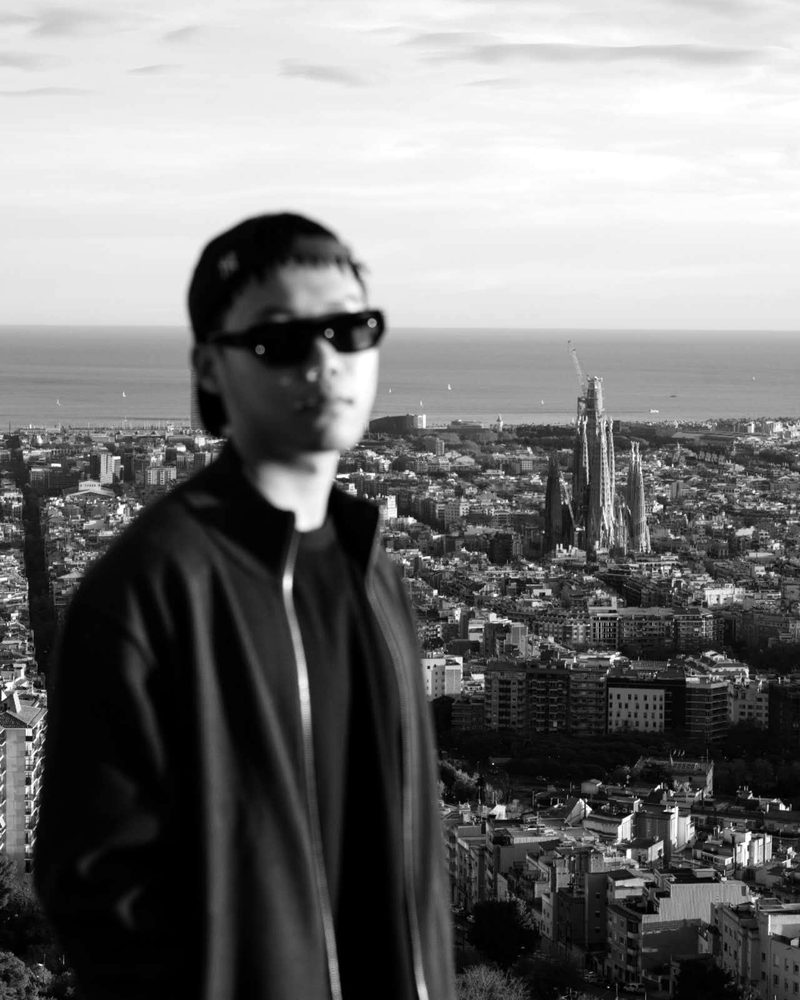
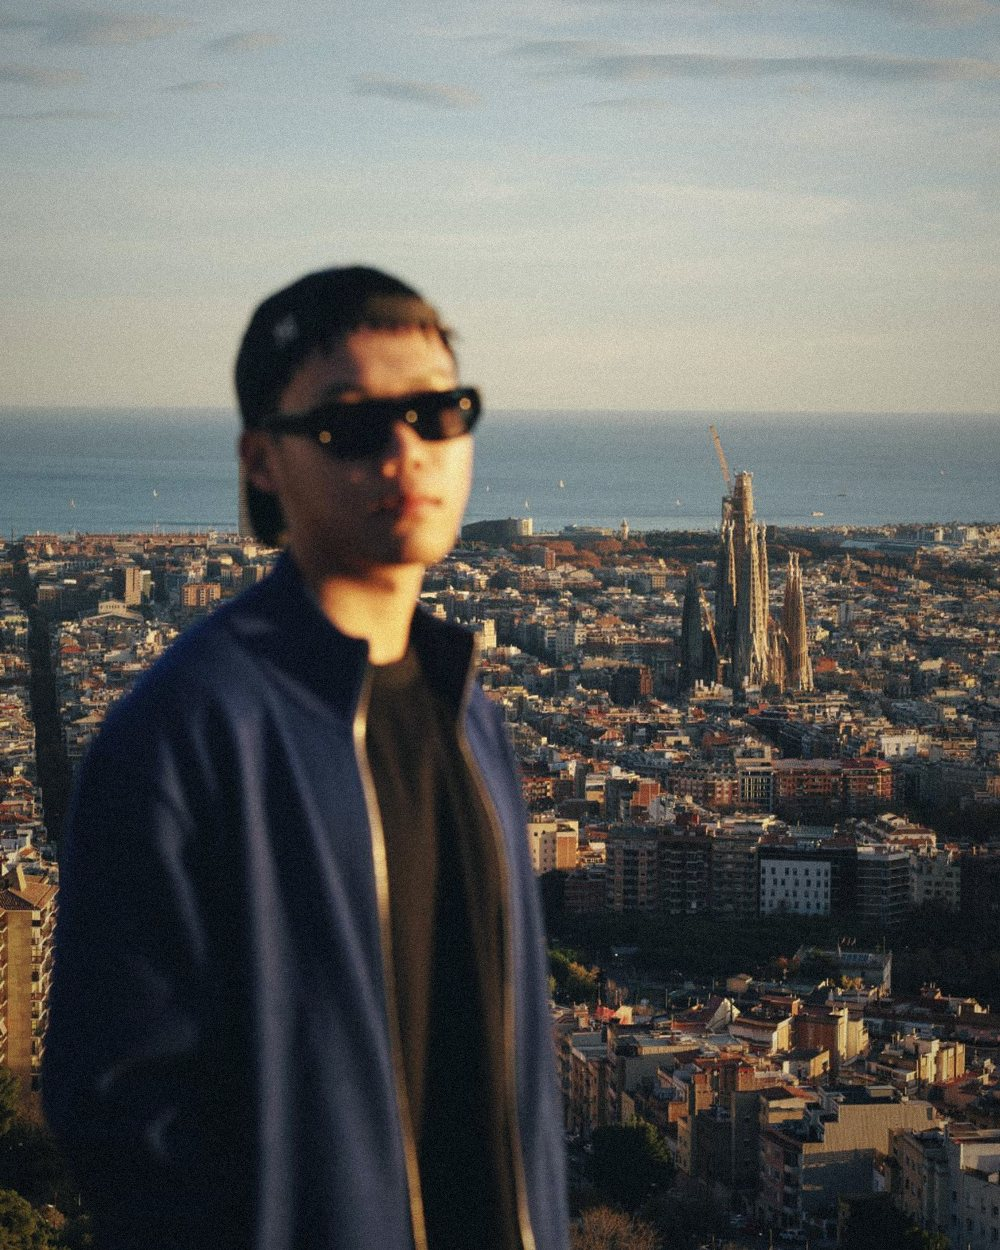
Portrait: characters by default, film-graded colour photo on hover
The default portrait is now drawn in Fragment Mono characters with the
background's ramp (local contrast, bright sky left blank), and hover
reveals the colour photo with a light film grade: lifted blacks, soft
S-curve, cool shadows / warm highlights, grain and vignette, no
brightening.

Claude-Session: https://claude.ai/code/session_01HAEGbGw5pwriEEDZcboQdQ

diff --git a/index.html b/index.html
@@ -84,10 +84,10 @@
     <section id="about" class="row" data-nav="about">
       <div class="label">
         <h2>about</h2>
-        <!-- Dithered by default, the photo fades in on hover -->
+        <!-- Drawn in characters by default; the colour photo (light film grade) fades in on hover -->
         <figure class="portrait">
-          <img class="portrait__photo" src="assets/portrait.jpg" alt="" width="800" height="1000" loading="lazy">
-          <img class="portrait__dither" src="assets/portrait-dither.png" alt="Xiang WAN above Barcelona, with the Sagrada Família behind" width="560" height="700">
+          <img class="portrait__photo" src="assets/portrait.jpg" alt="" width="1000" height="1250" loading="lazy">
+          <img class="portrait__ascii" src="assets/portrait-ascii.png" alt="Xiang WAN above Barcelona, with the Sagrada Família behind" width="840" height="1050">
         </figure>
       </div>
       <div class="content">

diff --git a/README.md b/README.md
@@ -10,7 +10,7 @@ A plain HTML + CSS academic homepage (no build step), served by GitHub Pages.
 - `site.js` — header ■ marker, scrolling bands, click-to-enlarge photos.
 - `ascii.js` — the rotating character background (three.js AsciiEffect). The head is cut into horizontal layers that turn
   apart and back into line, after David Černý's Head of Franz Kafka in Prague. One model is picked at random per visit.
-- `assets/portrait-dither.png`, `assets/portrait.jpg` — dithered portrait and the greyscale photo shown on hover.
+- `assets/portrait-ascii.png`, `assets/portrait.jpg` — portrait drawn in characters, and the colour photo (light film grade) shown on hover.
 - `cv.pdf` — add your CV at the repo root so the "cv" link works.
 
 ## 3D model credits
